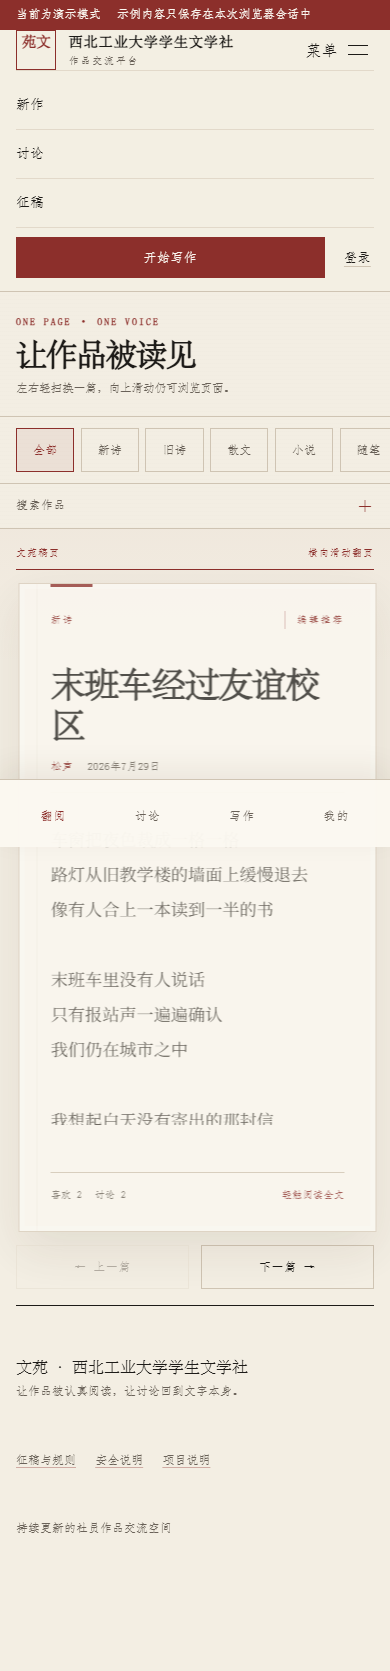
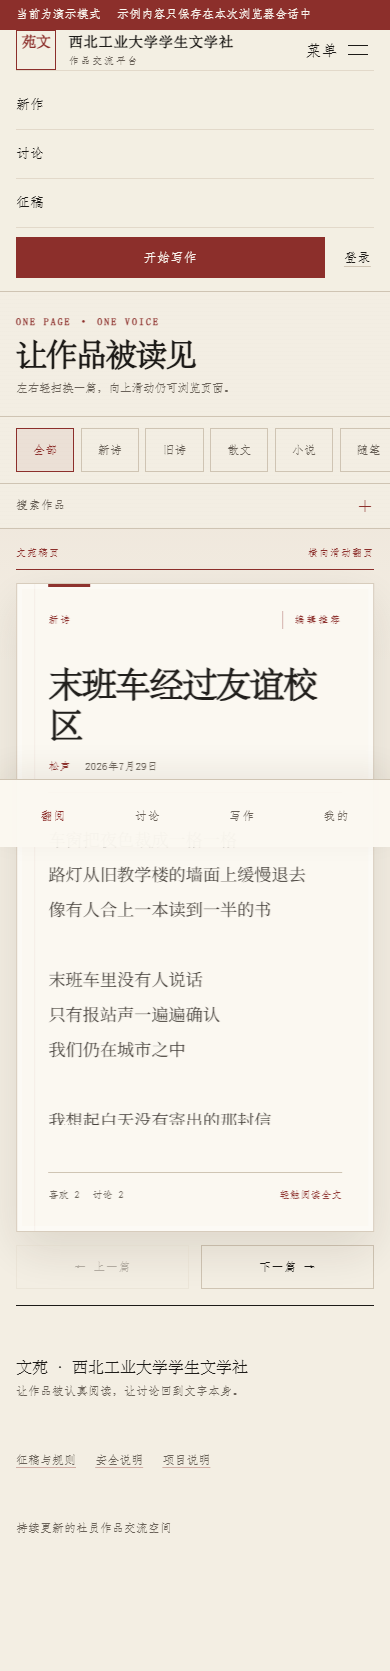
fix: return content per page, exclude deleted comments, add browse retries
修复发布2 code review 遗留问题 #4-#10：
- browse_works 分页每页返回 content，listWorks 降为轻量目录（不含正文），
  移除首页全量下载正文的兜底补齐
- comment_count 排除已删除评论，与 browse_discussions 口径一致
- 移动端预取失败显示错误块与重试按钮；桌面端空态/错误/列表互斥
- demo 讨论页只展示已发布作品的评论
- 搜索回车不再与 300ms 防抖重复加载；移除冗余 saveHomeSession
- pg_trgm 短查询限制写入 SQL 注释

单元测试 202→206 全绿，浏览器套件通过。

diff --git a/js/app.js b/js/app.js
@@ -795,9 +795,11 @@ function renderDesktopHome() {
     className: "work-list",
     testId: "work-list",
   });
+  // 有作品 → 列表；加载失败 → 独立错误块（不再同时显示空态）；
+  // 无作品且无错误 → 空态。三者互斥。
   if (browseWorks.length) {
     browseWorks.forEach((work) => list.append(createWorkRow(work)));
-  } else {
+  } else if (!state.browse.error) {
     list.append(
       element("div", { className: "empty-state" }, [
         element("h2", { text: "没有找到对应作品" }),
@@ -1256,7 +1258,7 @@ function renderMobileHome() {
         ],
       ),
     );
-  } else {
+  } else if (!state.browse.error) {
     stage.append(
       element("div", { className: "empty-state" }, [
         element("h2", { text: "没有找到对应作品" }),
@@ -1266,6 +1268,23 @@ function renderMobileHome() {
           type: "button",
           text: "清除筛选",
           dataset: { action: "reset-filters" },
+        }),
+      ]),
+    );
+  }
+
+  if (state.browse.error) {
+    // 预取/续载失败：已有作品时重试续载下一批，无作品时重置重载
+    stage.append(
+      element("div", { className: "empty-state" }, [
+        element("p", { text: "加载新一批作品失败。" }),
+        element("button", {
+          className: "secondary-button",
+          type: "button",
+          text: "重试加载",
+          dataset: {
+            action: filtered.length ? "retry-browse-more" : "retry-browse",
+          },
         }),
       ]),
     );
@@ -2444,20 +2463,12 @@ async function loadBrowseWorks({ reset = true } = {}) {
       pageSize: 10,
     });
     if (requestId !== state.browse.requestId) return;
-    // 分页聚合只返回摘要字段，卡片需要正文时从完整列表补齐。
-    const contentById = new Map(
-      state.works.map((work) => [work.id, work.content]),
-    );
-    const withCardContent = (works) =>
-      works.map((work) =>
-        work.content == null && contentById.has(work.id)
-          ? { ...work, content: contentById.get(work.id) }
-          : work,
-      );
+    // 分页 RPC 每页返回 content（移动端诗句卡片依赖），不再从全量列表补齐
     state.browse.works = reset
-      ? withCardContent(result.works)
-      : [...state.browse.works, ...withCardContent(result.works)];
+      ? result.works
+      : [...state.browse.works, ...result.works];
     state.browse.nextCursor = result.nextCursor;
+    state.browse.error = null;
     state.browse.loading = false;
     saveHomeSession();
   } catch (error) {
@@ -2476,7 +2487,6 @@ async function loadBrowseWorks({ reset = true } = {}) {
 async function loadMoreWorks() {
   if (!state.browse.nextCursor || state.browse.loading) return;
   await loadBrowseWorks({ reset: false });
-  saveHomeSession();
 }
 
 function setFilters(patch) {
@@ -2488,7 +2498,6 @@ async function refreshWorks() {
   state.works = await service.listWorks();
   state.mobileFeed.signature = "";
   await loadBrowseWorks({ reset: true });
-  saveHomeSession();
 }
 
 async function initialize() {
@@ -2667,6 +2676,8 @@ document.addEventListener("click", async (event) => {
     loadDiscussionsPage({ reset: false });
   } else if (action === "retry-browse") {
     loadBrowseWorks({ reset: true });
+  } else if (action === "retry-browse-more") {
+    loadMoreWorks();
   } else if (action === "mobile-category") {
     setFilters({ category: trigger.dataset.category });
   } else if (action === "mobile-feed-previous") {
@@ -2852,6 +2863,8 @@ document.addEventListener("submit", async (event) => {
   } else if (form.id === "homeFilters") {
     event.preventDefault();
     const data = new FormData(form);
+    // 回车提交会先触发一次即时加载；清除 300ms 防抖定时器，避免再次重复加载
+    clearTimeout(window.__homeSearchTimer);
     setFilters({
       query: String(data.get("query") ?? "").trim(),
     });
